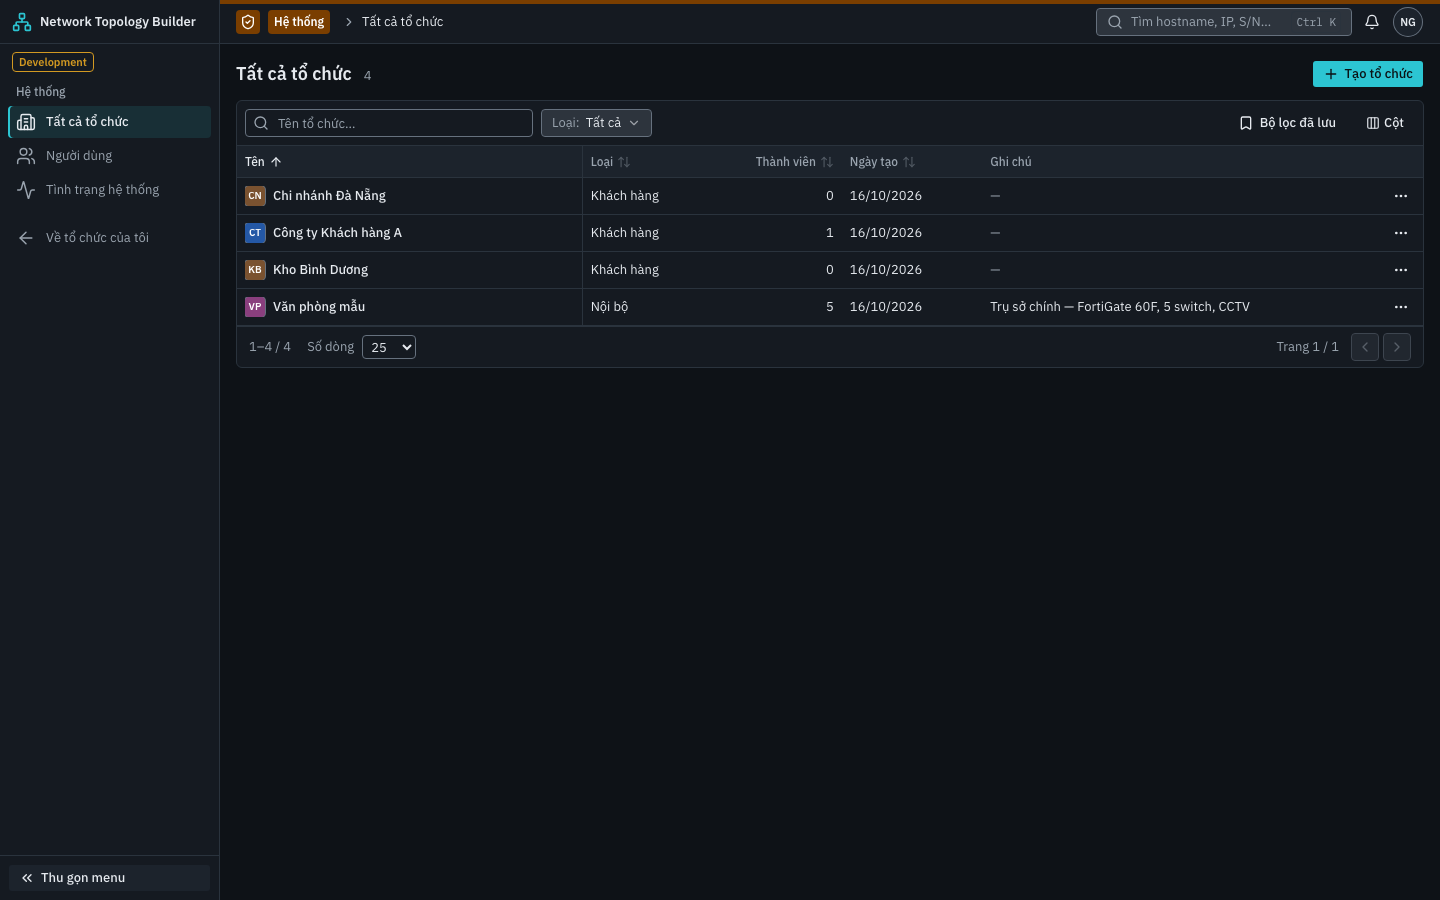
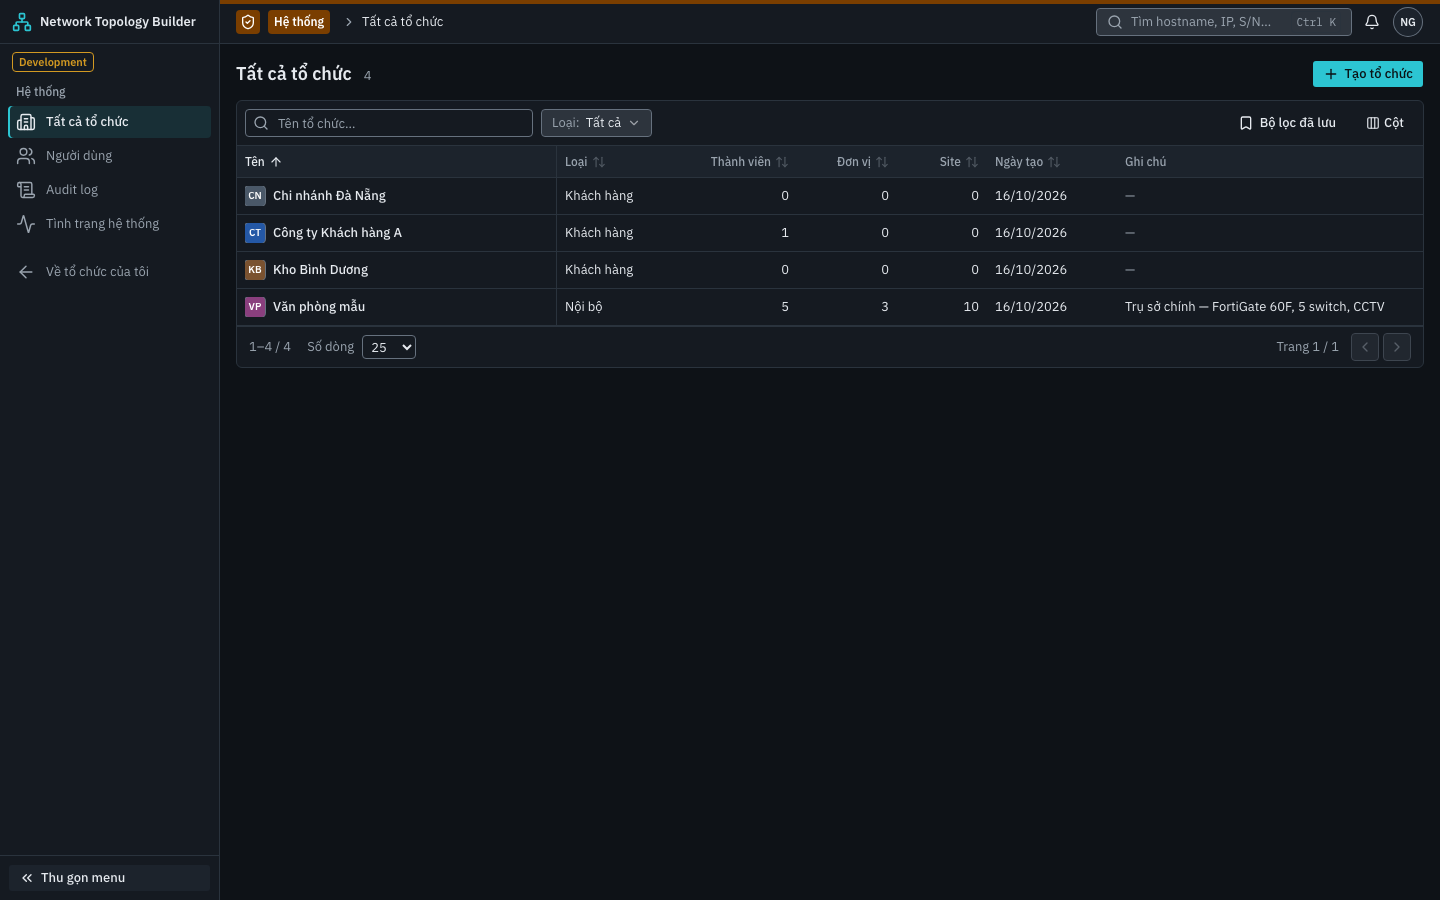
feat(ui): name the organization in unit/site screens; unit and site counts for system admins

diff --git a/frontend/src/modules/sites/UnitFormDialog.tsx b/frontend/src/modules/sites/UnitFormDialog.tsx
@@ -13,6 +13,7 @@ import {
 } from '@/components/ui/dialog'
 import { Input } from '@/components/ui/input'
 import { Textarea } from '@/components/ui/textarea'
+import { useOrganization } from '@/app/orgs'
 import { UNIT_RELATIONS, useSaveUnit, type BusinessUnit } from './sites'
 
 type Relation = (typeof UNIT_RELATIONS)[number]
@@ -31,6 +32,7 @@ export function UnitFormDialog({
 }) {
   const { t } = useTranslation()
   const save = useSaveUnit(orgId)
+  const org = useOrganization(orgId).data?.organization.name ?? ''
   const [f, setF] = useState({
     code: unit?.code ?? '',
     name: unit?.name ?? '',
@@ -67,7 +69,7 @@ export function UnitFormDialog({
           aria-label={unit ? t('units.edit') : t('units.add')}
         >
           <DialogHeader>
-            <DialogTitle>{unit ? t('units.edit') : t('units.add')}</DialogTitle>
+            <DialogTitle>{unit ? t('units.edit') : t('units.addTo', { org })}</DialogTitle>
           </DialogHeader>
           <div className="grid grid-cols-[180px_1fr] gap-3">
             <FormField
@@ -96,7 +98,7 @@ export function UnitFormDialog({
               )}
             </FormField>
           </div>
-          <FormField label={t('units.relation')}>
+          <FormField label={t('units.relationWith', { org })}>
             {(p) => (
               <NativeSelect
                 {...p}
@@ -105,14 +107,14 @@ export function UnitFormDialog({
               >
                 {UNIT_RELATIONS.map((r) => (
                   <option key={r} value={r}>
-                    {t(`units.relations.${r}`)}
+                    {t(`units.relationOf.${r}`, { org })}
                   </option>
                 ))}
               </NativeSelect>
             )}
           </FormField>
           <fieldset className="grid grid-cols-3 gap-3">
-            <legend className="mb-1 text-form font-medium">{t('units.contact')}</legend>
+            <legend className="mb-1 text-form font-medium">{t('units.contactGroup')}</legend>
             <FormField label={t('sites.contactName')}>
               {(p) => (
                 <Input {...p} maxLength={200} value={f.contactName} onChange={set('contactName')} />

diff --git a/frontend/src/App.test.tsx b/frontend/src/App.test.tsx
@@ -1138,7 +1138,18 @@ describe('business units (P1-07, ADR-026/030)', () => {
     renderAt(`/o/${ORG_ID}/sites`)
     expect(await screen.findByRole('link', { name: 'AGRI' })).toBeInTheDocument()
     expect(screen.getByText(/Dùng chung: 1/)).toBeInTheDocument()
+    // The organization is named: units belong to the organization being viewed (taken from the URL).
+    expect(
+      screen.getByRole('heading', { name: 'Đơn vị & Sites — Văn phòng mẫu' }),
+    ).toBeInTheDocument()
+    expect(
+      screen.getByRole('columnheader', { name: /Quan hệ với Văn phòng mẫu/ }),
+    ).toBeInTheDocument()
     fireEvent.click(screen.getByRole('button', { name: 'Thêm đơn vị' }))
+    const unitDialog = await screen.findByRole('dialog', { name: 'Thêm đơn vị vào Văn phòng mẫu' })
+    expect(
+      within(unitDialog).getByRole('option', { name: 'Đối tác của Văn phòng mẫu' }),
+    ).toBeInTheDocument()
     fireEvent.change(await screen.findByLabelText('Mã đơn vị'), { target: { value: 'agri-1' } })
     expect(screen.getByLabelText('Mã đơn vị')).toHaveValue('AGRI1')
     fireEvent.change(screen.getByLabelText('Tên đơn vị'), { target: { value: 'Mẫu Agri' } })
@@ -1165,7 +1176,7 @@ describe('business units (P1-07, ADR-026/030)', () => {
     expect(await screen.findByRole('link', { name: 'AGRI-BD01' })).toBeInTheDocument()
     expect(screen.queryByRole('link', { name: 'SHARED-HN01' })).not.toBeInTheDocument() // other unit's / shared sites
     fireEvent.click(screen.getAllByRole('button', { name: 'Thêm site' })[0])
-    const dialog = await screen.findByRole('dialog', { name: 'Thêm site' })
+    const dialog = await screen.findByRole('dialog', { name: 'Thêm site vào Văn phòng mẫu' })
     expect(within(dialog).getByLabelText('Đơn vị')).toHaveValue(UNIT_ID)
     fireEvent.change(within(dialog).getByLabelText('Tên site'), {
       target: { value: 'Nhà máy Bình Định 2' },

diff --git a/frontend/src/modules/admin/AdminOrganizationsPage.tsx b/frontend/src/modules/admin/AdminOrganizationsPage.tsx
@@ -44,6 +44,8 @@ const ORG_SORT: Record<string, (o: AdminOrganization) => string | number> = {
   name: (o) => o.name,
   kind: (o) => o.kind,
   memberCount: (o) => o.memberCount,
+  unitCount: (o) => o.unitCount,
+  siteCount: (o) => o.siteCount,
   createdAt: (o) => o.createdAt,
 }
 
@@ -196,6 +198,20 @@ export function AdminOrganizationsPage() {
       header: t('adminOrgs.members'),
       meta: { label: t('adminOrgs.members'), width: 120, align: 'right' },
       cell: ({ row }) => <span data-numeric>{row.original.memberCount}</span>,
+    },
+    {
+      id: 'unitCount',
+      accessorKey: 'unitCount',
+      header: t('adminOrgs.units'),
+      meta: { label: t('adminOrgs.units'), width: 100, align: 'right' },
+      cell: ({ row }) => <span data-numeric>{row.original.unitCount}</span>,
+    },
+    {
+      id: 'siteCount',
+      accessorKey: 'siteCount',
+      header: t('adminOrgs.sitesCount'),
+      meta: { label: t('adminOrgs.sitesCount'), width: 90, align: 'right' },
+      cell: ({ row }) => <span data-numeric>{row.original.siteCount}</span>,
     },
     {
       id: 'createdAt',

diff --git a/frontend/src/modules/sites/SiteFormDialog.tsx b/frontend/src/modules/sites/SiteFormDialog.tsx
@@ -14,6 +14,7 @@ import {
 } from '@/components/ui/dialog'
 import { Input } from '@/components/ui/input'
 import { Textarea } from '@/components/ui/textarea'
+import { useOrganization } from '@/app/orgs'
 import { placeCode } from '@/lib/placeCode'
 import {
   SITE_KINDS,
@@ -57,6 +58,7 @@ export function SiteFormDialog({
   const { t } = useTranslation()
   const save = useSaveSite(orgId)
   const units = useBusinessUnits(orgId)
+  const orgName = useOrganization(orgId).data?.organization.name ?? ''
   const [f, setF] = useState({
     code: site?.code ?? '',
     name: site?.name ?? '',
@@ -119,7 +121,7 @@ export function SiteFormDialog({
           aria-label={site ? t('sites.edit') : t('sites.add')}
         >
           <DialogHeader>
-            <DialogTitle>{site ? t('sites.edit') : t('sites.add')}</DialogTitle>
+            <DialogTitle>{site ? t('sites.edit') : t('sites.addTo', { org: orgName })}</DialogTitle>
           </DialogHeader>
           <div className="grid grid-cols-2 gap-3">
             <FormField

diff --git a/frontend/src/modules/sites/SiteListPage.tsx b/frontend/src/modules/sites/SiteListPage.tsx
@@ -35,6 +35,7 @@ function UnitsTable({
   onAdd: () => void
 }) {
   const { t } = useTranslation()
+  const orgName = useOrganization(orgId).data?.organization.name ?? ''
   const userId = useSession().data?.user.id ?? ''
   const units = useBusinessUnits(orgId)
   const sites = useSites(orgId)
@@ -75,8 +76,8 @@ function UnitsTable({
     {
       id: 'relation',
       accessorKey: 'relation',
-      header: t('units.relation'),
-      meta: { label: t('units.relation'), width: 140 },
+      header: t('units.relationWith', { org: orgName }),
+      meta: { label: t('units.relationWith', { org: orgName }), width: 180 },
       cell: ({ row }) => t(`units.relations.${row.original.relation}`),
     },
     {
@@ -191,7 +192,7 @@ export function SiteListPage() {
   return (
     <div className="space-y-3 p-4">
       <PageHeader
-        title={t('units.hub')}
+        title={org.data ? t('units.hubOf', { org: org.data.organization.name }) : t('units.hub')}
         actions={
           <>
             {canAdmin && (

diff --git a/frontend/src/i18n/vi.ts b/frontend/src/i18n/vi.ts
@@ -331,6 +331,8 @@ export const vi = {
     saved: 'Đã lưu thay đổi',
   },
   adminOrgs: {
+    units: 'Đơn vị',
+    sitesCount: 'Site',
     title: 'Tất cả tổ chức',
     create: 'Tạo tổ chức',
     name: 'Tên',
@@ -609,6 +611,7 @@ export const vi = {
     admin: 'Quản trị tổ chức',
   },
   sites: {
+    addTo: 'Thêm site vào {{org}}',
     kind: 'Loại site',
     siteKinds: {
       office: 'Văn phòng',
@@ -693,6 +696,15 @@ export const vi = {
     scopeIgnored: 'Owner/Admin không bị giới hạn theo site.',
   },
   units: {
+    contactGroup: 'Liên hệ của đơn vị',
+    hubOf: 'Đơn vị & Sites — {{org}}',
+    addTo: 'Thêm đơn vị vào {{org}}',
+    relationWith: 'Quan hệ với {{org}}',
+    relationOf: {
+      subsidiary: 'Công ty con của {{org}}',
+      partner: 'Đối tác của {{org}}',
+      customer: 'Khách hàng của {{org}}',
+    },
     hub: 'Đơn vị & Sites',
     tabUnits: 'Đơn vị',
     tabSites: 'Sites',

diff --git a/frontend/src/i18n/en.ts b/frontend/src/i18n/en.ts
@@ -333,6 +333,8 @@ export const en: Strings = {
     saved: 'Changes saved',
   },
   adminOrgs: {
+    units: 'Units',
+    sitesCount: 'Sites',
     title: 'All organizations',
     create: 'Create organization',
     name: 'Name',
@@ -616,6 +618,7 @@ export const en: Strings = {
     admin: 'Manage organizations',
   },
   sites: {
+    addTo: 'Add a site to {{org}}',
     kind: 'Site type',
     siteKinds: {
       office: 'Office',
@@ -701,6 +704,15 @@ export const en: Strings = {
     scopeIgnored: 'Owners/admins are never restricted by site.',
   },
   units: {
+    contactGroup: 'Unit contact',
+    hubOf: 'Units & Sites — {{org}}',
+    addTo: 'Add a unit to {{org}}',
+    relationWith: 'Relation to {{org}}',
+    relationOf: {
+      subsidiary: 'Subsidiary of {{org}}',
+      partner: 'Partner of {{org}}',
+      customer: 'Customer of {{org}}',
+    },
     hub: 'Units & Sites',
     tabUnits: 'Units',
     tabSites: 'Sites',

diff --git a/frontend/src/modules/sites/UnitDetailPage.tsx b/frontend/src/modules/sites/UnitDetailPage.tsx
@@ -53,7 +53,9 @@ export function UnitDetailPage() {
             <h1 className="text-title font-semibold">
               {u.code} <span className="font-normal text-muted-foreground">· {u.name}</span>
             </h1>
-            <p className="text-muted-foreground">{t(`units.relations.${u.relation}`)}</p>
+            <p className="text-muted-foreground">
+              {t(`units.relationOf.${u.relation}`, { org: org.data?.organization.name ?? '' })}
+            </p>
           </div>
         </div>
         <div className="flex items-center gap-2">

diff --git a/frontend/src/api/schema.d.ts b/frontend/src/api/schema.d.ts
@@ -776,6 +776,16 @@ export interface components {
             notes: string;
             /** Format: int64 */
             memberCount: number;
+            /**
+             * Format: int64
+             * @description Live business units (count only)
+             */
+            unitCount: number;
+            /**
+             * Format: int64
+             * @description Live sites (count only)
+             */
+            siteCount: number;
             /** Format: date-time */
             createdAt: string;
             /** Format: int32 */

diff --git a/backend/internal/api/org_handlers.go b/backend/internal/api/org_handlers.go
@@ -168,10 +168,10 @@ func (s *Server) ActivateOrganization(ctx context.Context, req apigen.ActivateOr
 
 // --- System admin (route gated by requireSystemAdmin) ---
 
-func toAdminOrganization(id pgtype.UUID, name, kind, notes string, members int64, created pgtype.Timestamptz, version int32) apigen.AdminOrganization {
+func toAdminOrganization(id pgtype.UUID, name, kind, notes string, members, units, sites int64, created pgtype.Timestamptz, version int32) apigen.AdminOrganization {
 	return apigen.AdminOrganization{
 		Id: uuid.UUID(id.Bytes), Name: name, Kind: apigen.OrganizationKind(kind), Notes: notes,
-		MemberCount: members, CreatedAt: created.Time, Version: version,
+		MemberCount: members, UnitCount: units, SiteCount: sites, CreatedAt: created.Time, Version: version,
 	}
 }
 
@@ -183,7 +183,7 @@ func (s *Server) AdminListOrganizations(ctx context.Context, _ apigen.AdminListO
 	}
 	out := apigen.AdminOrganizationList{Organizations: make([]apigen.AdminOrganization, 0, len(rows))}
 	for _, r := range rows {
-		out.Organizations = append(out.Organizations, toAdminOrganization(r.ID, r.Name, r.Kind, r.Notes, r.MemberCount, r.CreatedAt, r.Version))
+		out.Organizations = append(out.Organizations, toAdminOrganization(r.ID, r.Name, r.Kind, r.Notes, r.MemberCount, r.UnitCount, r.SiteCount, r.CreatedAt, r.Version))
 	}
 	return apigen.AdminListOrganizations200JSONResponse(out), nil
 }
@@ -233,7 +233,7 @@ func (s *Server) AdminCreateOrganization(ctx context.Context, req apigen.AdminCr
 		return nil, err
 	}
 	return apigen.AdminCreateOrganization201JSONResponse(
-		toAdminOrganization(org.ID, org.Name, org.Kind, org.Notes, members, org.CreatedAt, org.Version)), nil
+		toAdminOrganization(org.ID, org.Name, org.Kind, org.Notes, members, 0, 0, org.CreatedAt, org.Version)), nil
 }
 
 // AdminDeleteOrganization soft-deletes an organization (ADR-022): it disappears for everyone, history stays.

diff --git a/backend/internal/store/org.sql.go b/backend/internal/store/org.sql.go
@@ -41,7 +41,10 @@ func (q *Queries) AddMembership(ctx context.Context, arg AddMembershipParams) (M
 const adminListOrganizations = `-- name: AdminListOrganizations :many
 
 SELECT o.id, o.name, o.kind, o.notes, o.created_at, o.updated_at, o.version,
-       (SELECT count(*) FROM memberships m WHERE m.organization_id = o.id) AS member_count
+       (SELECT count(*) FROM memberships m WHERE m.organization_id = o.id) AS member_count,
+       -- Counts only (no content): the system area shows each customer's size without reading its data (ADR-023).
+       (SELECT count(*) FROM business_units b WHERE b.organization_id = o.id AND b.deleted_at IS NULL)::bigint AS unit_count,
+       (SELECT count(*) FROM sites s WHERE s.organization_id = o.id AND s.deleted_at IS NULL)::bigint AS site_count
 FROM organizations o
 WHERE o.deleted_at IS NULL
 ORDER BY lower(o.name), o.id
@@ -56,6 +59,8 @@ type AdminListOrganizationsRow struct {
 	UpdatedAt   pgtype.Timestamptz
 	Version     int32
 	MemberCount int64
+	UnitCount   int64
+	SiteCount   int64
 }
 
 // System admin (not tenant-scoped by design: managing the list of organizations).
@@ -77,6 +82,8 @@ func (q *Queries) AdminListOrganizations(ctx context.Context) ([]AdminListOrgani
 			&i.UpdatedAt,
 			&i.Version,
 			&i.MemberCount,
+			&i.UnitCount,
+			&i.SiteCount,
 		); err != nil {
 			return nil, err
 		}

diff --git a/backend/internal/api/org_test.go b/backend/internal/api/org_test.go
@@ -161,6 +161,16 @@ func TestAdminOrganizations(t *testing.T) {
 	if n := len(list["organizations"].([]any)); n != 4 {
 		t.Fatalf("admin list = %d orgs, want 4", n)
 	}
+	// Unit / site counts (counts only — the system admin is not a member of OrgA).
+	mustCreate(t, fx.A, unitsPath(fx.OrgA), map[string]any{"code": "FOOD", "name": "Food"})
+	mustCreate(t, fx.A, sitesPath(fx.OrgA), map[string]any{"code": "SHARED-HCM01", "name": "IDC"})
+	_, list = root.Do("GET", "/api/admin/organizations", nil)
+	for _, o := range list["organizations"].([]any) {
+		org := o.(map[string]any)
+		if org["id"] == fx.OrgA.String() && (org["unitCount"] != float64(1) || org["siteCount"] != float64(1)) {
+			t.Errorf("OrgA counts = %v / %v, want 1 / 1", org["unitCount"], org["siteCount"])
+		}
+	}
 
 	if status, _ := root.Do("DELETE", "/api/admin/organizations/"+orgC.String(), nil); status != http.StatusNoContent {
 		t.Fatalf("delete: %d", status)
